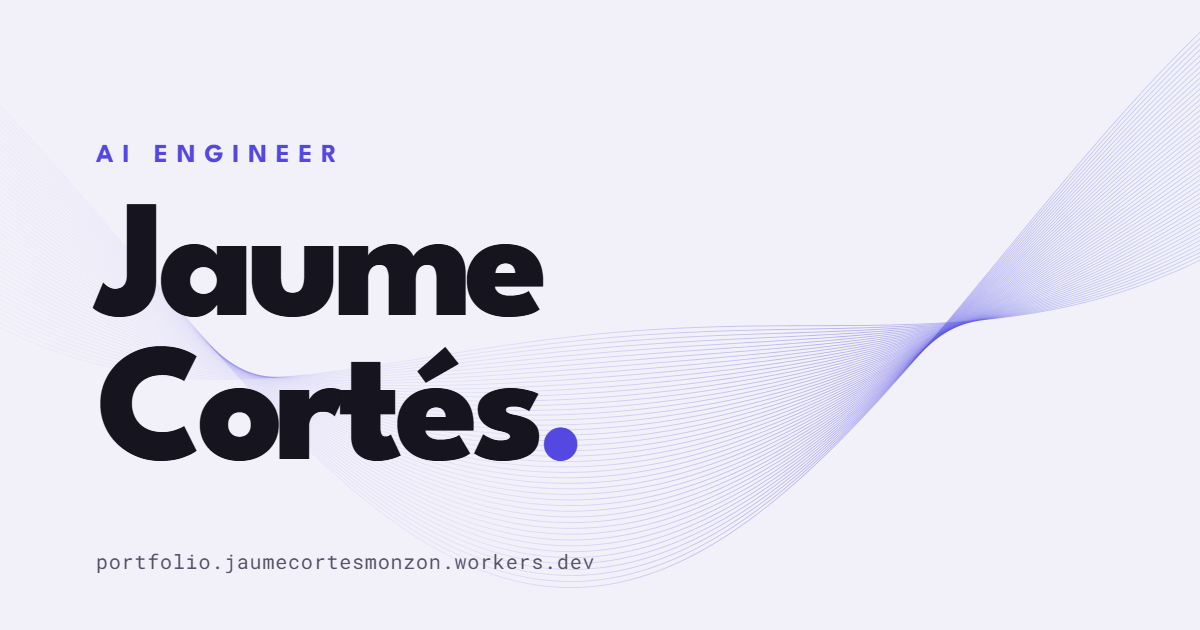
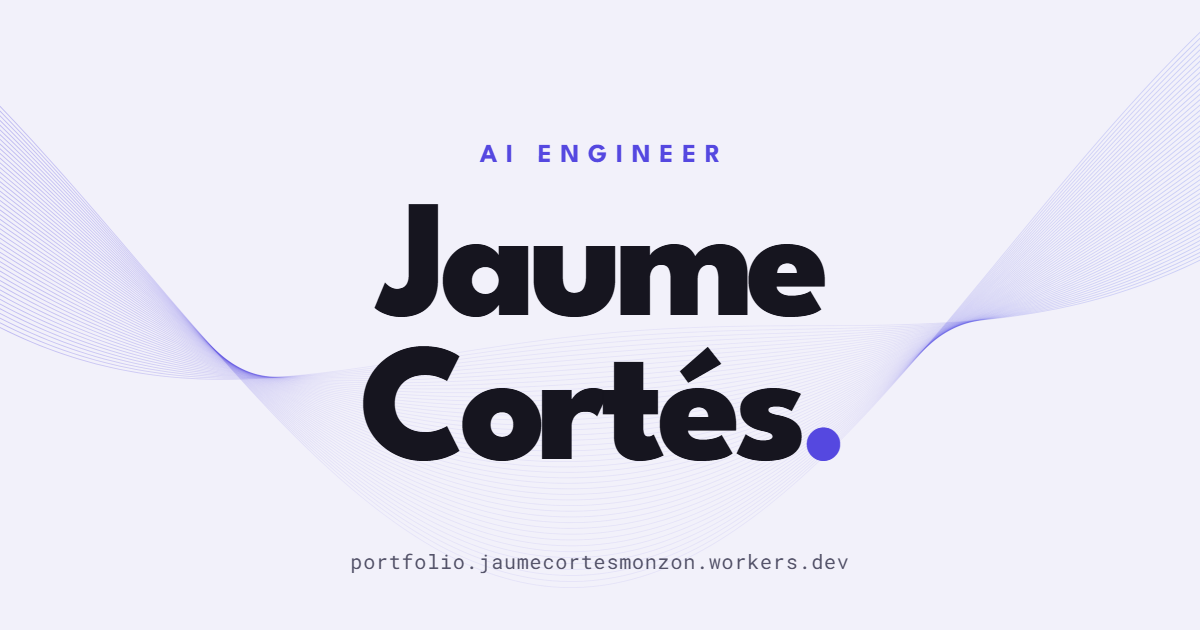
fix: centre the share image so cropped previews keep the name

diff --git a/DESIGN.md b/DESIGN.md
@@ -79,9 +79,12 @@ should never shift the lines behind the copy and the buttons.
   the width and the buttons stack at full width.
 - The ribbon is the one decorative element. Nothing else on the page is ornamental.
 - With `prefers-reduced-motion` it draws a single still frame.
-- The link preview images (`public/og-en.png`, `public/og-es.png`) are the hero as a still: tint
-  ground, the role label, the name with its indigo full stop and the ribbon at rest on the right,
-  plus the host in mono. They are the only place the ribbon appears outside the hero.
+- The link preview images (`public/og-en.png`, `public/og-es.png`) take the hero's parts, centred:
+  tint ground, the role label, the name with its indigo full stop and the host in mono, with the
+  ribbon at rest crossing the full width, faint behind the copy. All copy stays inside the central
+  630px square: chat apps crop previews around the centre (to a square, or about 1.5:1), so
+  left-aligned copy loses its first letters. They are the only place the ribbon appears outside
+  the hero.
 
 ## Motion
 
